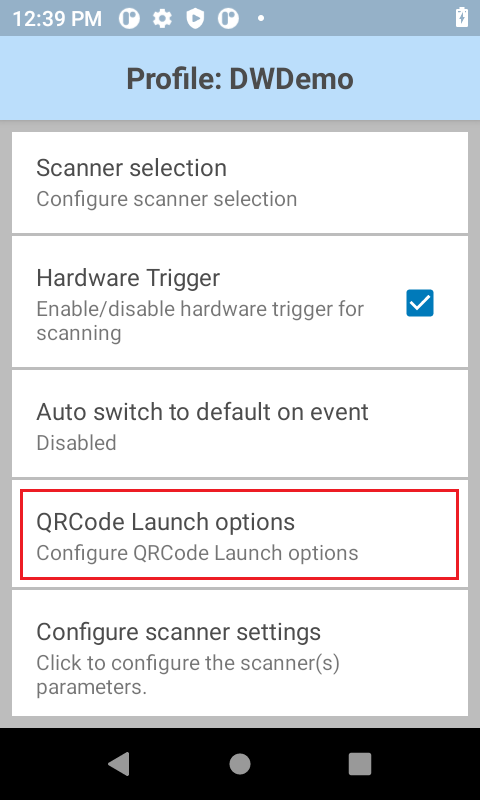
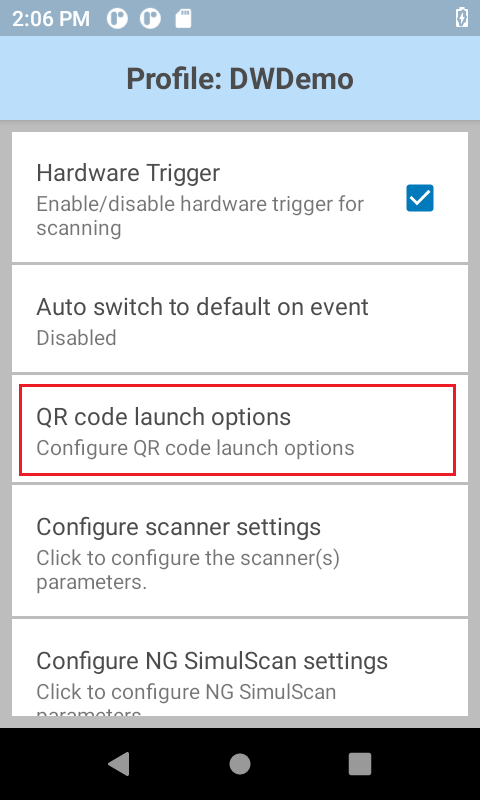
[TUT-59442/TUT-59441] DW 11.2 - SetConfig New ADF Action/QR Code Launch

Changed region(s): [[0.0312, 0.1875, 0.9688, 0.9062], [0.0312, 0.0, 0.5, 0.0625], [0.9375, 0.0, 0.9688, 0.0312]]

diff --git a/datawedge/11-2/guide/input/barcode/index.html b/datawedge/11-2/guide/input/barcode/index.html
@@ -470,7 +470,7 @@ Note: When the hardware trigger is disabled, it cannot be used to trigger the sc
 
 <h2 id="qrcodelaunchoptions" class="anchor"><a class="heading-anchor" href="#qrcodelaunchoptions"><span></span></a>QRCode Launch Options</h2>
 
-<p><strong>QRCode Launch Options</strong> enable/disable a web URL to be launched from the default browser when decoded from a QR Code barcode. The QR Code must contain a valid URL that starts with http or https and the selected scanner must support QR Code scanning, otherwise the scanned data is dispatched to the application without opening the URL. </p>
+<p><strong>QRCode launch options</strong> enable/disable a web URL to be launched from the default browser when decoded from a QR code barcode. The QR code must contain a valid URL that starts with "http" or "https" and the <a href="#scannerselection">selected scanner</a> must support QR code scanning, otherwise the scanned data is dispatched to the application without opening the URL. </p>
 
 <table>
  <tbody><tr>
@@ -486,13 +486,13 @@ Note: When the hardware trigger is disabled, it cannot be used to trigger the sc
  </tr>
  <tr>
   <td>
-    <i>Enable QR Code to open URL</i>
+    <i>Enable QR code to open URL</i>
   </td>
   <td>
         &nbsp;&nbsp;&nbsp;&nbsp;&nbsp;
   </td>
   <td>
-    <i>QR Code Launch Options</i>
+    <i>QR code launch options</i>
   </td>
  </tr>
 </tbody></table>
@@ -502,12 +502,12 @@ Note: When the hardware trigger is disabled, it cannot be used to trigger the sc
 <p><strong>Available options:</strong></p>
 
 <ul>
-<li><p><strong>Launch QR Codes -</strong> configures the Datawedge profile to enable/disable the feature to open a URL when scanning a QR Code. If enabled, the scanned barcode must be of type QR Code and must contain a valid URL for the default browser to open the URL. Otherwise, scanned data is dispatched to the application. This option is disabled by default. <strong>Launch QR Codes</strong> must be enabled for the following options:</p>
+<li><p><strong>Launch QR codes -</strong> configures the Datawedge profile to enable or disable (default) the feature to open a URL when scanning a QR code. If enabled, the scanned barcode must be of type QR code and must contain a valid URL for the default browser to open the URL. Otherwise, scanned data is dispatched to the application. <strong>Launch QR codes</strong> must be enabled for the following options:</p>
 
 <ul>
-<li><p><strong>Enable QRCode Decoder Only -</strong> if enabled, it decodes only QR Code barcodes and disregards all other barcodes. By default, this is disabled.</p></li>
+<li><p><strong>Enable only QR code decoder -</strong> if enabled (disabled by default), it decodes only QR code barcodes and disregards all other decoders selected within the profile. By restricting decoding to only QR barcodes, this eliminates the need to deselect other decoders that may be selected in the profile. </p></li>
 
-<li><p><strong>Show URL Popup -</strong> if disabled, when a QR Code containing a valid URL is scanned, the default browser immediately launches and opens the URL. If enabled (by default), when a QR Code barcode containing a valid URL is scanned, a popup appears prompting the user to decide whether or not to open the URL based on the following selection:</p>
+<li><p><strong>Show URL popup -</strong> if disabled, when a QR code containing a valid URL is scanned, the default browser immediately launches and opens the URL. If enabled (by default), when a QR code barcode containing a valid URL is scanned, a popup appears prompting the user to decide whether or not to open the URL based on the following selection:</p>
 
 <ul>
 <li><p><strong>Yes -</strong> the default browser launches and opens the URL.</p></li>
@@ -515,7 +515,7 @@ Note: When the hardware trigger is disabled, it cannot be used to trigger the sc
 <li><p><strong>No -</strong> the URL is not opened and the scanned data is dispatched to the application.
 <img style="height:350px" src="qrcode-popup.png"></p>
 
-<p><em>QR Code popup message</em></p></li></ul></li></ul></li>
+<p><em>QR code popup message</em></p></li></ul></li></ul></li>
 </ul>
 
 <hr>

diff --git a/datawedge/11-2/guide/api/setconfig/index.html b/datawedge/11-2/guide/api/setconfig/index.html
@@ -1658,11 +1658,17 @@ Error messages are logged for invalid actions and parameters
 <td align="left" valign="top"><p class="table">SEND_CHAR<br>action_param_1</p></td>
 <td align="left" valign="top"><p class="table">Sends the specified ASCII/ Unicode character. The maximum Unicode character value is U-10FFFF (1114111 in decimal)</p></td>
 </tr>
+<tr>
+<td align="left" valign="top"><p class="table"><strong>Notification</strong></p></td>
+<td align="left" valign="top"><p class="table">BEEP<br>action_param_1</p></td>
+<td align="left" valign="top"><p class="table">Sets the notification tone. Refer to the <a href="../../process/adf/#supportedadfactions">DataWedge UI</a> for the tone name, which may vary by device and Android version. E.g.:<br><code>Bundle bParamsAction1 = new Bundle();<br>bParamsAction1.putString("type","BEEP");<br> bParamsAction1.putString("action_param_1","Drip"); // ringtone name</code></p></td>
+</tr>
 </tbody>
 </table>
 
-<p></p></div>
-<strong>Notes</strong>:<p></p>
+<p></p></div><p></p>
+
+<p><strong>Notes</strong>:</p>
 
 <ul>
 <li><strong>Default action_param values are 0, empty or none</strong> unless otherwise noted.</li>
